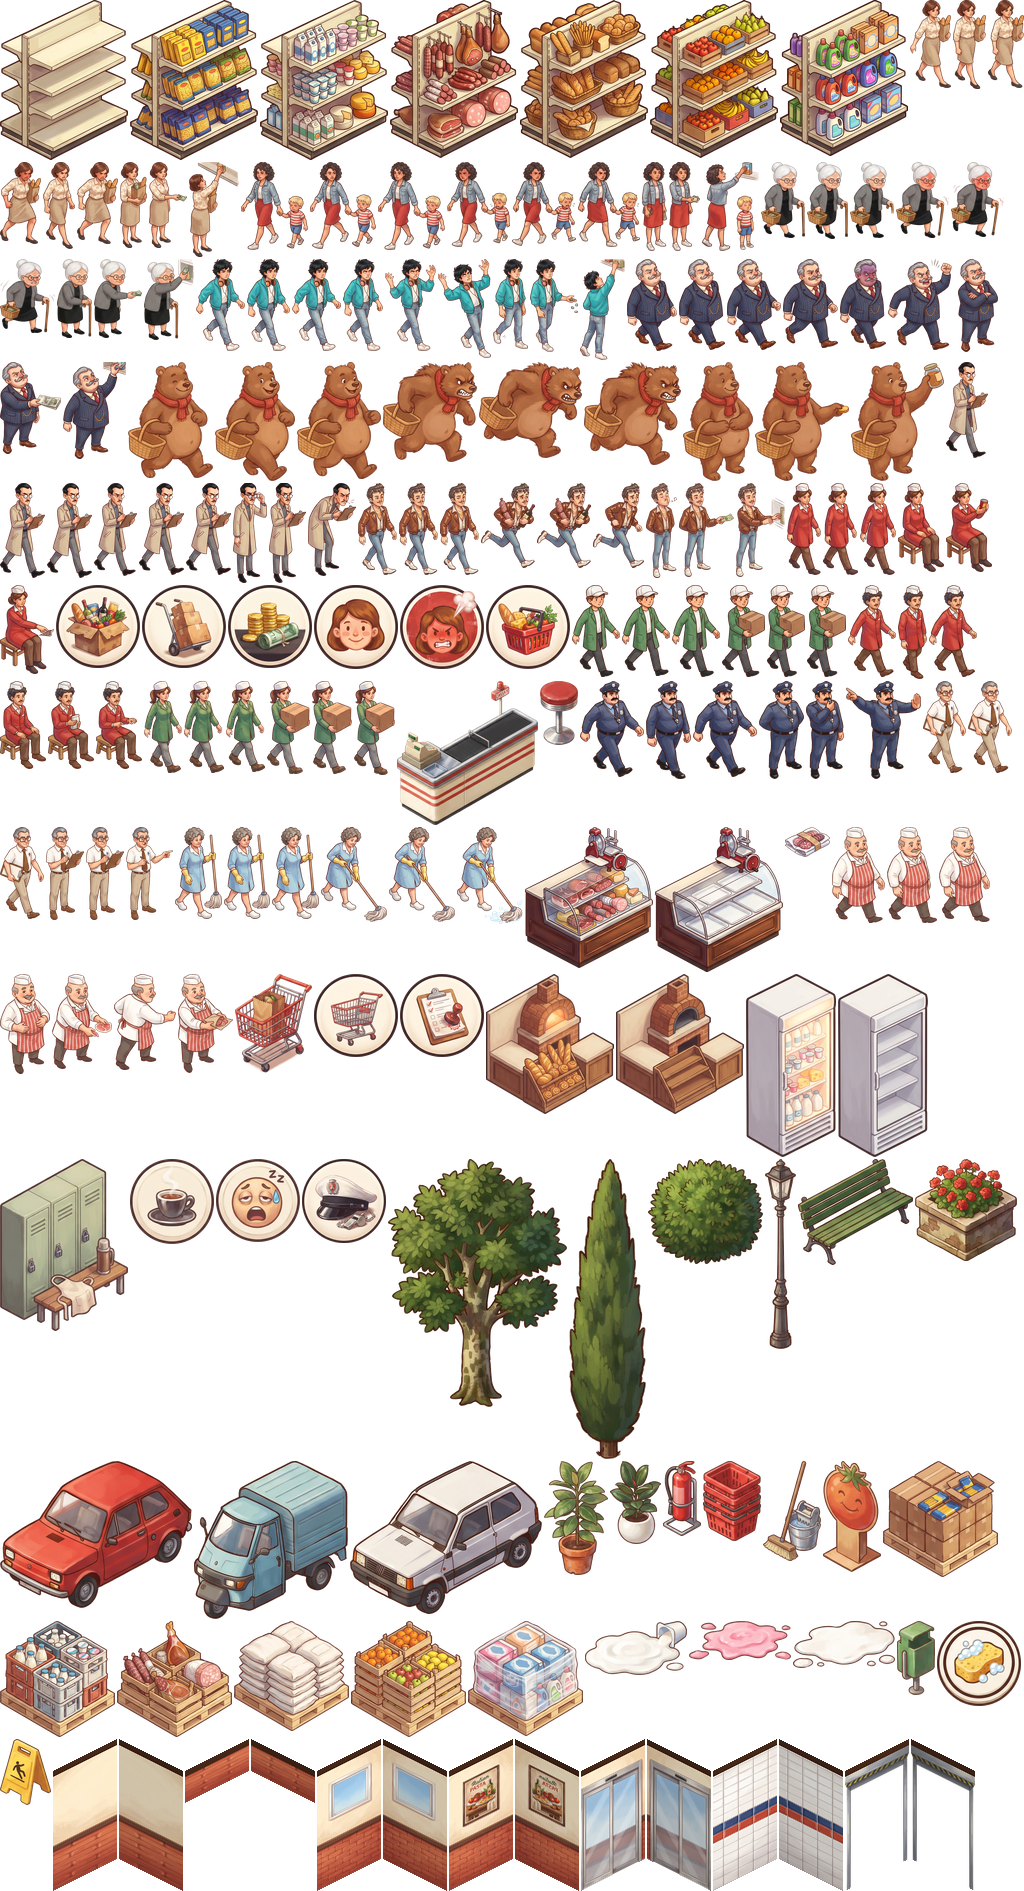
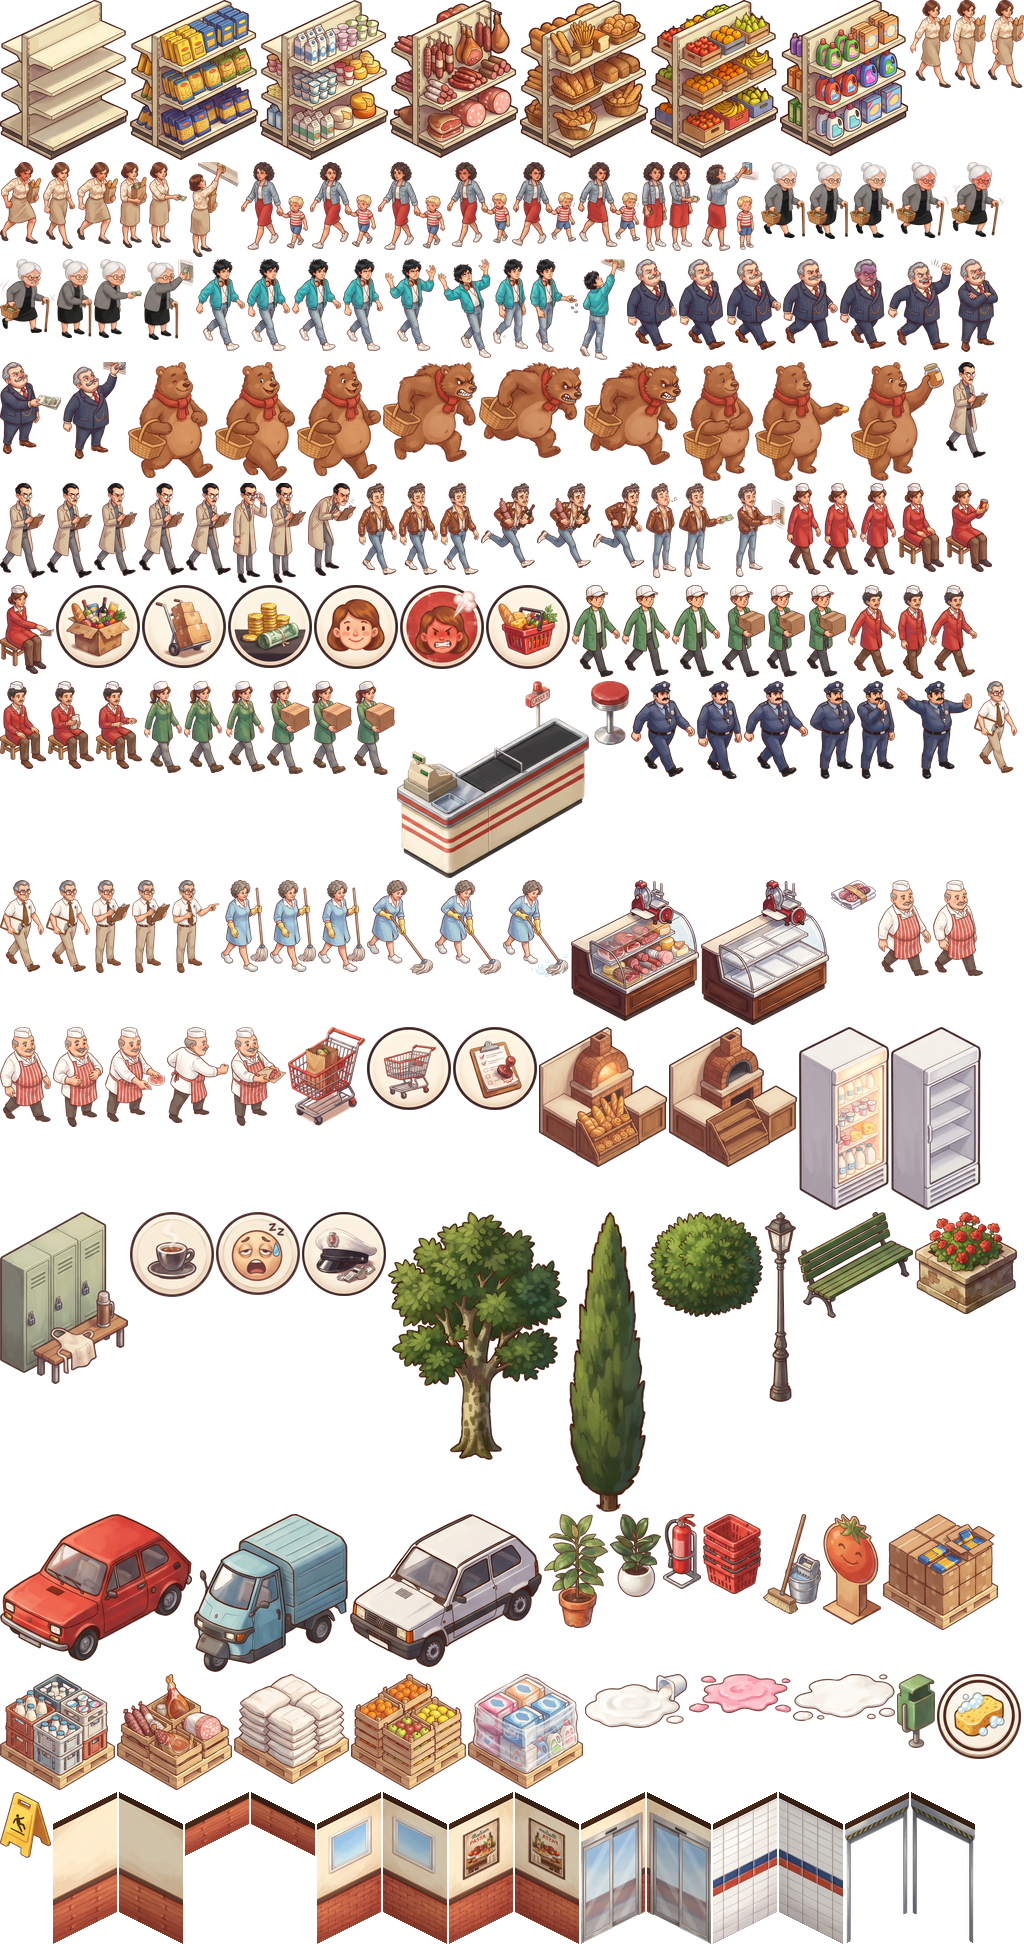
Till spans two cells along its lane
Checkout counter now occupies its cell plus the next one up the lane
(rotated: the next one along x). Placement, move and rotate check the
whole footprint; walkers avoid both cells. Tapping either end places it.
Sprite drawn across both cells, cashier seated behind by the register.

diff --git a/src/sim/build.ts b/src/sim/build.ts
@@ -10,7 +10,7 @@ const FIXED = 'In questo negozio le stanze sono già fatte';
 
 export type Command =
     | { type: 'buildRoom'; room: RoomType; x: number; y: number; w: number; h: number }
-    | { type: 'placeObject'; object: ObjectType; x: number; y: number; category?: string }
+    | { type: 'placeObject'; object: ObjectType; x: number; y: number; category?: string; rot?: 0 | 1 }
     | { type: 'demolish'; x: number; y: number }
     | { type: 'rotate'; x: number; y: number }
     | { type: 'move'; x: number; y: number; toX: number; toY: number }
@@ -31,7 +31,11 @@ const fail = (reason: string): Result => ({ ok: false, reason });
 export const roomAt = (s: GameState, x: number, y: number) =>
     s.rooms.find((r) => x >= r.x && x < r.x + r.w && y >= r.y && y < r.y + r.h);
 
-export const objectAt = (s: GameState, x: number, y: number) => s.objects.find((o) => o.x === x && o.y === y);
+/** Cells an object stands on: a till is a checkout lane two cells long, up the lane from (x, y) (playtest 2026-11-27). */
+export const cellsOf = (o: Pick<ShopObject, 'type' | 'x' | 'y' | 'rot'>) =>
+    o.type === 'cassa' ? [{ x: o.x, y: o.y }, o.rot ? { x: o.x - 1, y: o.y } : { x: o.x, y: o.y - 1 }] : [{ x: o.x, y: o.y }];
+
+export const objectAt = (s: GameState, x: number, y: number) => s.objects.find((o) => cellsOf(o).some((c) => c.x === x && c.y === y));
 
 /** Edge between two cells, either order. */
 export const edgeKey = (ax: number, ay: number, bx: number, by: number) => (ax + ay * 1000 < bx + by * 1000 ? `${ax},${ay}|${bx},${by}` : `${bx},${by}|${ax},${ay}`);
@@ -92,10 +96,10 @@ export function check(s: GameState, c: Command): Result {
         const def = OBJECTS[c.object];
         if (!def) return fail('Oggetto sconosciuto');
         if (!allows(s, 'objects', c.object)) return fail(`${def.label}: non c'è in questo negozio`);
-        const room = roomAt(s, c.x, c.y);
-        if (!room || room.type !== def.room) return fail(`${def.label}: va in ${ROOMS[def.room].label}`);
-        if (objectAt(s, c.x, c.y)) return fail('Cella occupata');
-        if (c.object !== 'porta' && inDoorway(s, c.x, c.y)) return fail('Lascia libero il passaggio');
+        const cells = cellsOf({ type: c.object, x: c.x, y: c.y, rot: c.rot });
+        if (cells.some((p) => roomAt(s, p.x, p.y)?.type !== def.room)) return fail(`${def.label}: va in ${ROOMS[def.room].label}`);
+        if (cells.some((p) => objectAt(s, p.x, p.y))) return fail('Cella occupata');
+        if (c.object !== 'porta' && cells.some((p) => inDoorway(s, p.x, p.y))) return fail('Lascia libero il passaggio');
         if (c.object === 'scaffale' && !CATEGORIES.includes(c.category as Category)) return fail('Scegli una categoria');
         const special = Object.entries(ONLY_IN).find(([, cat]) => cat === c.category);
         if (c.object === 'scaffale' && special) return fail(`${c.category}: ci vuole ${OBJECTS[special[0] as ObjectType].label.toLowerCase()}`);
@@ -109,7 +113,10 @@ export function check(s: GameState, c: Command): Result {
     if (c.type === 'rotate') {
         const o = objectAt(s, c.x, c.y);
         if (!o) return fail('Niente da ruotare');
-        return o.type === 'porta' ? fail('La porta si gira da sola') : { ok: true, cost: 0 };
+        if (o.type === 'porta') return fail('La porta si gira da sola');
+        // turned, it must still fit (a till swings its second cell round)
+        const r = check({ ...s, money: Infinity, objects: s.objects.filter((x) => x !== o) }, { type: 'placeObject', object: o.type, x: o.x, y: o.y, category: o.category, rot: o.rot ? 0 : 1 });
+        return r.ok ? { ok: true, cost: 0 } : r;
     }
     if (c.type === 'move') {
         const o = objectAt(s, c.x, c.y);
@@ -117,7 +124,7 @@ export function check(s: GameState, c: Command): Result {
         if (o.type === 'porta' && s.level) return fail('La porta resta dov\'è');
         if (c.toX === c.x && c.toY === c.y) return fail('È già qui');
         // same rules as placing it there, for free, as if it had left its cell
-        const r = check({ ...s, money: Infinity, objects: s.objects.filter((x) => x !== o) }, { type: 'placeObject', object: o.type, x: c.toX, y: c.toY, category: o.category });
+        const r = check({ ...s, money: Infinity, objects: s.objects.filter((x) => x !== o) }, { type: 'placeObject', object: o.type, x: c.toX, y: c.toY, category: o.category, rot: o.rot });
         return r.ok ? { ok: true, cost: 0 } : r;
     }
     if (c.type === 'hire') return s.candidates.some((x) => x.id === c.candidateId) ? { ok: true, cost: 0 } : fail('Candidato non trovato');
@@ -179,7 +186,7 @@ export function apply(s: GameState, c: Command): Result {
     if (c.type === 'buildRoom') {
         s.rooms.push({ id: s.nextId++, type: c.room, x: c.x, y: c.y, w: c.w, h: c.h });
     } else if (c.type === 'placeObject') {
-        const o: ShopObject = { id: s.nextId++, type: c.object, x: c.x, y: c.y };
+        const o: ShopObject = { id: s.nextId++, type: c.object, x: c.x, y: c.y, ...(c.rot ? { rot: 1 } : {}) };
         if (c.object === 'scaffale' || c.object in ONLY_IN) {
             o.category = ONLY_IN[c.object as keyof typeof ONLY_IN] ?? c.category as Category;
             o.stock = c.object === 'forno' ? 0 : SHELF_CAPACITY; // the oven starts cold

diff --git a/src/render/draw.ts b/src/render/draw.ts
@@ -4,7 +4,7 @@ import { gridToIso, TILE_W, TILE_H } from './iso.ts';
 import { SPRITES, SPILL_FRAMES, personFrame } from './sprites.ts';
 import { walls, doorEdge, type Edge } from './walls.ts';
 import { cashierAt } from '../sim/staff.ts';
-import { STAFF_ONLY } from '../sim/build.ts';
+import { STAFF_ONLY, cellsOf } from '../sim/build.ts';
 import { terrain, props, decor, MARGIN, type Ground, type Prop } from './scenery.ts';
 import type { GameState, RoomType, ObjectType, ShopObject, Customer, Staff, Role, Category } from '../sim/state.ts';
 
@@ -87,8 +87,10 @@ const objectFrame = (o: Pick<ShopObject, 'type' | 'category' | 'stock' | 'rot'>)
     o.type === 'cassa' ? SPRITES.cassa : o.type === 'cestino' ? SPRITES.cestino : o.type === 'bancone' ? (o.stock ? SPRITES.bancone : SPRITES.banconeVuoto) : o.type === 'forno' ? (o.stock ? SPRITES.forno : SPRITES.fornoVuoto) : o.type === 'frigo' ? (o.stock ? SPRITES.frigo : SPRITES.frigoVuoto) : o.type === 'armadietti' ? SPRITES.armadietti : o.type === 'porta' ? 'porta_l' : o.category && o.stock !== 0 ? SPRITES.shelf(o.category) : SPRITES.scaffale;
 
 export function drawObject(g: G, o: Pick<ShopObject, 'type' | 'x' | 'y' | 'category' | 'stock' | 'rot'>, alpha = 1, put: Put = noPut, depth = 0) {
-    const p = gridToIso(o.x, o.y);
-    if (put(objectFrame(o), p.x, p.y + TILE_H, depth, !!o.rot)) return; // stands on the cell's bottom vertex; turned = mirrored
+    // stands on its footprint's bottom vertex, centred across it (a till spans two cells); turned = mirrored
+    const cells = cellsOf(o).map((c) => gridToIso(c.x, c.y));
+    const px = cells.reduce((t, c) => t + c.x, 0) / cells.length, py = Math.max(...cells.map((c) => c.y)) + TILE_H - (o.type === 'cassa' ? TILL_LIFT : 0);
+    if (put(objectFrame(o), px, py, depth, !!o.rot)) return;
     const look = OBJECT_LOOK[o.type];
     box(g, o.x, o.y, look.h, look.color, look.k, alpha);
     // merce in cima; sparisce quando lo scaffale è vuoto
@@ -129,7 +131,13 @@ const SEAT_OFFSET = 0.45;
 /** Seated cashier sprite: screen px from the till's cell centre, behind the register, facing the customers. */
 const SEAT_PX = { x: 17, y: -6 };
 /** Cashier's stool: this far behind the checkout lane's cell (milestone 24). */
-export const LANE_SEAT = 0.5;
+export const LANE_SEAT = 0.8;
+/** The painted counter's plinth reaches a little below its footprint: lifted so the low front wall hides it. */
+const TILL_LIFT = 3;
+/** ...and this far up the lane from the register, so the register doesn't hide them. */
+const LANE_ALONG = 0.35;
+/** Seat behind a two-cell checkout lane at (x, y), turned or not. */
+const laneSeat = (x: number, y: number, turned: boolean) => feet(x - (turned ? LANE_ALONG : LANE_SEAT), y - (turned ? LANE_SEAT : LANE_ALONG));
 /** Deli man: standing behind the counter, facing the customers. */
 const DELI_PX = { x: -6, y: -20 };
 
@@ -141,7 +149,7 @@ export function drawStaff(g: G, s: GameState, st: Staff, put: Put = noPut, depth
     const at = feet(st.x, st.y);
     const turned = seated && !!s.objects.find((o) => o.id === st.tillId)?.rot; // till mirrored: seat and facing mirror too
     if (seated && st.role === 'cassiere') { // straight checkout lane: seated behind it, facing the customers' side
-        const p = feet(st.x - (turned ? 0 : LANE_SEAT), st.y - (turned ? LANE_SEAT : 0));
+        const p = laneSeat(st.x, st.y, turned);
         if (put(frame, p.x, p.y + 4, depth, turned)) return;
     }
     const seat = st.role === 'banconiere' ? DELI_PX : SEAT_PX;
@@ -235,7 +243,7 @@ export function drawThings(g: G, over: G, s: GameState, put: Put = noPut) {
     const items: { d: number; draw: (depth: number) => void }[] = [
         ...walls(s).map((w) => ({ d: w.x + w.y + (w.low ? 0.6 : -0.5), draw: (z: number) => panel(put, wallFrame(w), w.x, w.y, w.side, z) })),
         ...s.objects.filter((o) => o.type === 'cassa' && !cashierAt(s, o)).map((o) => ({ d: o.x + o.y - 0.9, draw: (z: number) => { // empty stool
-            const p = feet(o.x - (o.rot ? 0 : LANE_SEAT), o.y - (o.rot ? LANE_SEAT : 0));
+            const p = laneSeat(o.x, o.y, !!o.rot);
             put('sgabello', p.x, p.y + 4, z);
         } })),
         ...s.objects.map((o) => {

diff --git a/tests/build.test.ts b/tests/build.test.ts
@@ -1,7 +1,8 @@
 import { test } from 'node:test';
 import assert from 'node:assert/strict';
 import { createState } from '../src/sim/state.ts';
-import { apply, check } from '../src/sim/build.ts';
+import { apply, check, objectAt } from '../src/sim/build.ts';
+import { walkableFor } from '../src/sim/customers.ts';
 import { START_MONEY, ROOMS, OBJECTS, DEMOLISH_REFUND, GRID_W } from '../src/sim/config.ts';
 import { shop } from './helpers.ts';
 
@@ -38,7 +39,7 @@ test('objects only in the right room', () => {
     assert.equal(apply(s, place('scaffale', 2, 2)).ok, false, 'missing category');
     assert.equal(apply(s, place('scaffale', 1, 1, 'Pane')).ok, false, 'cell occupied');
     assert.equal(apply(s, place('scaffale', 15, 15, 'Pane')).ok, false, 'no room there');
-    assert.equal(apply(s, place('cassa', 5, 0)).ok, true);
+    assert.equal(apply(s, place('cassa', 5, 1)).ok, true); // a till takes two cells: (5,1) and (5,0)
     assert.equal(s.objects.length, 3);
     assert.equal(s.objects[0].category, 'Pasta');
 });
@@ -105,4 +106,19 @@ test('rotate needs a shelf or a till', () => {
     const door = s.objects.find((o) => o.type === 'porta')!;
     assert.deepEqual(check(s, { type: 'rotate', x: door.x, y: door.y }), { ok: false, reason: 'La porta si gira da sola' });
     assert.deepEqual(check(s, { type: 'rotate', x: 0, y: 0 }), { ok: false, reason: 'Niente da ruotare' });
+});
+
+test('a till takes two cells along its lane (playtest 2026-11-27)', () => {
+    const s = shop({ cashier: false }); // checkout area x3..5 y8..9, till at (4,9)
+    const till = s.objects.find((o) => o.type === 'cassa')!;
+    assert.equal(objectAt(s, 4, 8), till, 'the belt end, up the lane');
+    assert.equal(walkableFor(s)(4, 8), false, 'nobody walks through the counter');
+    assert.deepEqual(check(s, { ...place('cassa', 5, 9), rot: 1 }), { ok: false, reason: 'Cella occupata' }, 'turned, its second cell is the till');
+    assert.equal(check(s, place('cassa', 3, 8)).reason, 'Cassa: va in Area casse', 'the second cell would be on the sales floor');
+    assert.equal(apply(s, { type: 'rotate', x: 4, y: 8 }).ok, true, 'tap either cell: turned it takes (3,9)');
+    assert.equal(objectAt(s, 3, 9), till);
+    assert.equal(objectAt(s, 4, 8), undefined);
+    assert.equal(apply(s, place('cassa', 5, 9)).ok, true);
+    assert.equal(check(s, { type: 'rotate', x: 5, y: 9 }).ok, false, 'turned it would sit on the other till');
+    assert.equal(check(s, { type: 'move', x: 5, y: 9, toX: 5, toY: 8 }).ok, false, 'its second cell would leave the area');
 });

diff --git a/src/game/scenes/Game.ts b/src/game/scenes/Game.ts
@@ -1,7 +1,7 @@
 import * as Phaser from 'phaser';
 import { Scene, type GameObjects, type Input } from 'phaser';
 import { createState, tick, advance, type GameState, type RoomType, type ObjectType, type Category } from '../../sim/state.ts';
-import { apply, check, objectAt, roomAt, type Command } from '../../sim/build.ts';
+import { apply, check, objectAt, roomAt, cellsOf, type Command } from '../../sim/build.ts';
 import { STEP_MS, TAP_ICON_BELOW, BEAR_BONUS_MONEY, BEAR_BONUS_REP, INSPECTION_DAY } from '../../sim/config.ts';
 import { readyAt, tricking } from '../../sim/customers.ts';
 import { tired } from '../../sim/staff.ts';
@@ -363,7 +363,12 @@ export class Game extends Scene {
                 w: Math.abs(a.x - c.x) + 1, h: Math.abs(a.y - c.y) + 1,
             };
         }
-        if (t.kind === 'object') return { type: 'placeObject', object: t.object, category: t.category, ...c };
+        if (t.kind === 'object') {
+            const cmd: Command = { type: 'placeObject', object: t.object, category: t.category, ...c };
+            // a till is two cells long: tapping its far end works too
+            const down: Command = { ...cmd, y: c.y + 1 };
+            return t.object === 'cassa' && !check(this.sim, cmd).ok && check(this.sim, down).ok ? down : cmd;
+        }
         return { type: t.kind, ...c };
     }
 
@@ -376,7 +381,7 @@ export class Game extends Scene {
         if (cmd.type === 'buildRoom') {
             for (let x = cmd.x; x < cmd.x + cmd.w; x++) for (let y = cmd.y; y < cmd.y + cmd.h; y++) tile(g, x, y, color, 0.45);
         } else if (cmd.type === 'placeObject') {
-            tile(g, cmd.x, cmd.y, color, 0.45);
+            for (const q of cellsOf({ type: cmd.object, x: cmd.x, y: cmd.y })) tile(g, q.x, q.y, color, 0.45);
             drawObject(g, { type: cmd.object, x: cmd.x, y: cmd.y, category: cmd.category as Category }, 0.6);
         } else if (cmd.type === 'demolish' || cmd.type === 'rotate') {
             tile(g, cmd.x, cmd.y, cmd.type === 'rotate' ? color : BAD, 0.5);

diff --git a/src/sim/staff.ts b/src/sim/staff.ts
@@ -8,7 +8,7 @@ import { findPath, pathToObject, walk, type Cell, type Walkable } from './path.t
 import type { GameState, Role, Trait, Staff, ShopObject, Cart } from './state.ts';
 import { updateCleaner } from './dirt.ts';
 import { tricking, catchFurbetto, readyAt } from './customers.ts';
-import { check, apply, crossing, type Command } from './build.ts';
+import { check, apply, crossing, cellsOf, type Command } from './build.ts';
 
 /** Top up the candidate list to CANDIDATES_PER_ROLE per role. */
 export function refillCandidates(s: GameState) {
@@ -41,7 +41,7 @@ export function fire(s: GameState, staffId: number) {
 function walkableFor(s: GameState): Walkable {
     const open = new Set<string>();
     for (const r of s.rooms) for (let x = r.x; x < r.x + r.w; x++) for (let y = r.y; y < r.y + r.h; y++) open.add(`${x},${y}`);
-    for (const o of s.objects) if (o.type !== 'porta') open.delete(`${o.x},${o.y}`);
+    for (const o of s.objects) if (o.type !== 'porta') for (const c of cellsOf(o)) open.delete(`${c.x},${c.y}`);
     return Object.assign((x: number, y: number) => open.has(`${x},${y}`), { cross: crossing(s) });
 }
 

diff --git a/src/sim/customers.ts b/src/sim/customers.ts
@@ -9,7 +9,7 @@ import {
 } from './config.ts';
 import { findPath, pathToObject, walk, type Cell, type Walkable } from './path.ts';
 import { rand } from './rng.ts';
-import { crossing } from './build.ts';
+import { crossing, cellsOf } from './build.ts';
 import { cashierAt, pace, tired, wantsBreak } from './staff.ts';
 import { spawnEveryMin } from './day.ts';
 import { maybeSpill, spillNear } from './dirt.ts';
@@ -26,7 +26,7 @@ export function walkableFor(s: GameState): Walkable {
         if (r.type === 'magazzino' || r.type === 'spogliatoio') continue; // staff only
         for (let x = r.x; x < r.x + r.w; x++) for (let y = r.y; y < r.y + r.h; y++) open.add(`${x},${y}`);
     }
-    for (const o of s.objects) if (o.type !== 'porta') open.delete(`${o.x},${o.y}`);
+    for (const o of s.objects) if (o.type !== 'porta') for (const c of cellsOf(o)) open.delete(`${c.x},${c.y}`);
     for (const c of s.carts) open.delete(`${c.x},${c.y}`);
     return Object.assign((x: number, y: number) => open.has(`${x},${y}`), { cross: crossing(s) });
 }

diff --git a/tests/breakroom.test.ts b/tests/breakroom.test.ts
@@ -92,7 +92,7 @@ test('a busy tired cashier takes no new customer and goes on the break', () => {
 
 test('one break at a time per role', () => {
     const s = staffShop();
-    ok(s, { type: 'placeObject', object: 'cassa', x: 3, y: 9 });
+    ok(s, { type: 'placeObject', object: 'cassa', x: 5, y: 9 });
     const b = hireStaff(s, 'cassiere');
     untilTicks(s, () => b.state === 'at_till');
     for (const st of s.staff) st.energy = BREAK_BELOW - 1;

diff --git a/tools/kit.py b/tools/kit.py
@@ -27,7 +27,7 @@ SHEETS = [
     # playtest 2026-11-27: men at the till, women in the warehouse too; a straight checkout lane
     ('cassiere_m.jpg', 3, 2, ('h', 46), WALK('cassiere_m') + ['cassiere_m_seduto', 'cassiere_m_scan_0', 'cassiere_m_scan_1']),
     ('magazziniera.jpg', 3, 2, ('h', 46), WALK('magazziniera') + ['magazziniera_carry_0', 'magazziniera_carry_1', 'magazziniera_carry_2']),
-    ('cassa.jpg', 2, 1, ('w', 1.0), [('cassa', 1.1), ('sgabello', 0.3)]),  # playtest 2026-11-27: register at the exit end, by the cashier
+    ('cassa.jpg', 2, 1, ('w', 1.0), [('cassa', 1.5), ('sgabello', 0.3)]),  # playtest 2026-11-27: register at the exit end, by the cashier; 1.5 = two cells' width
     ('guardia.jpg', 3, 2, ('h', 48), WALK('guardia') + ['guardia_idle', 'guardia_fischio', 'guardia_ferma']),
     ('capo.jpg', 3, 2, ('h', 46), WALK('capo') + ['capo_idle', 'capo_scrive', 'capo_indica']),
     ('pulizie.jpg', 3, 2, ('h', 46), WALK('pulizie') + ['pulizie_mop_0', 'pulizie_mop_1', 'pulizie_mop_2']),

diff --git a/docs/milestones/24-cassa-in-linea-e-staff.md b/docs/milestones/24-cassa-in-linea-e-staff.md
@@ -36,6 +36,7 @@ Secondo giro di feedback del 2026-11-27: grafica nuova per muri e cassa (una lin
 - [x] Candidati divisi per mansione con tab; verificato dagli screenshot.
 - [x] Niente muro tra sala e casse, solo attorno alle stanze dello staff (`tests/walls.test.ts`).
 - [x] Cassa rifatta (playtest): registratore all'uscita accanto al cassiere, sprite intero; alone delle icone non più tagliato a quadrato. Verificato dagli screenshot.
+- [x] La cassa occupa due caselle lungo la fila (`tests/build.test.ts` "a till takes two cells"); si può toccare l'una o l'altra per piazzarla. Verificato dallo screenshot.
 - [x] Saracinesca aperta nei varchi del magazzino (`tests/walls.test.ts`); verificato dallo screenshot.
 - [x] Scheda con vista dal vivo del lavoratore; verificato dallo screenshot, giudizio finale al playtest.
 
